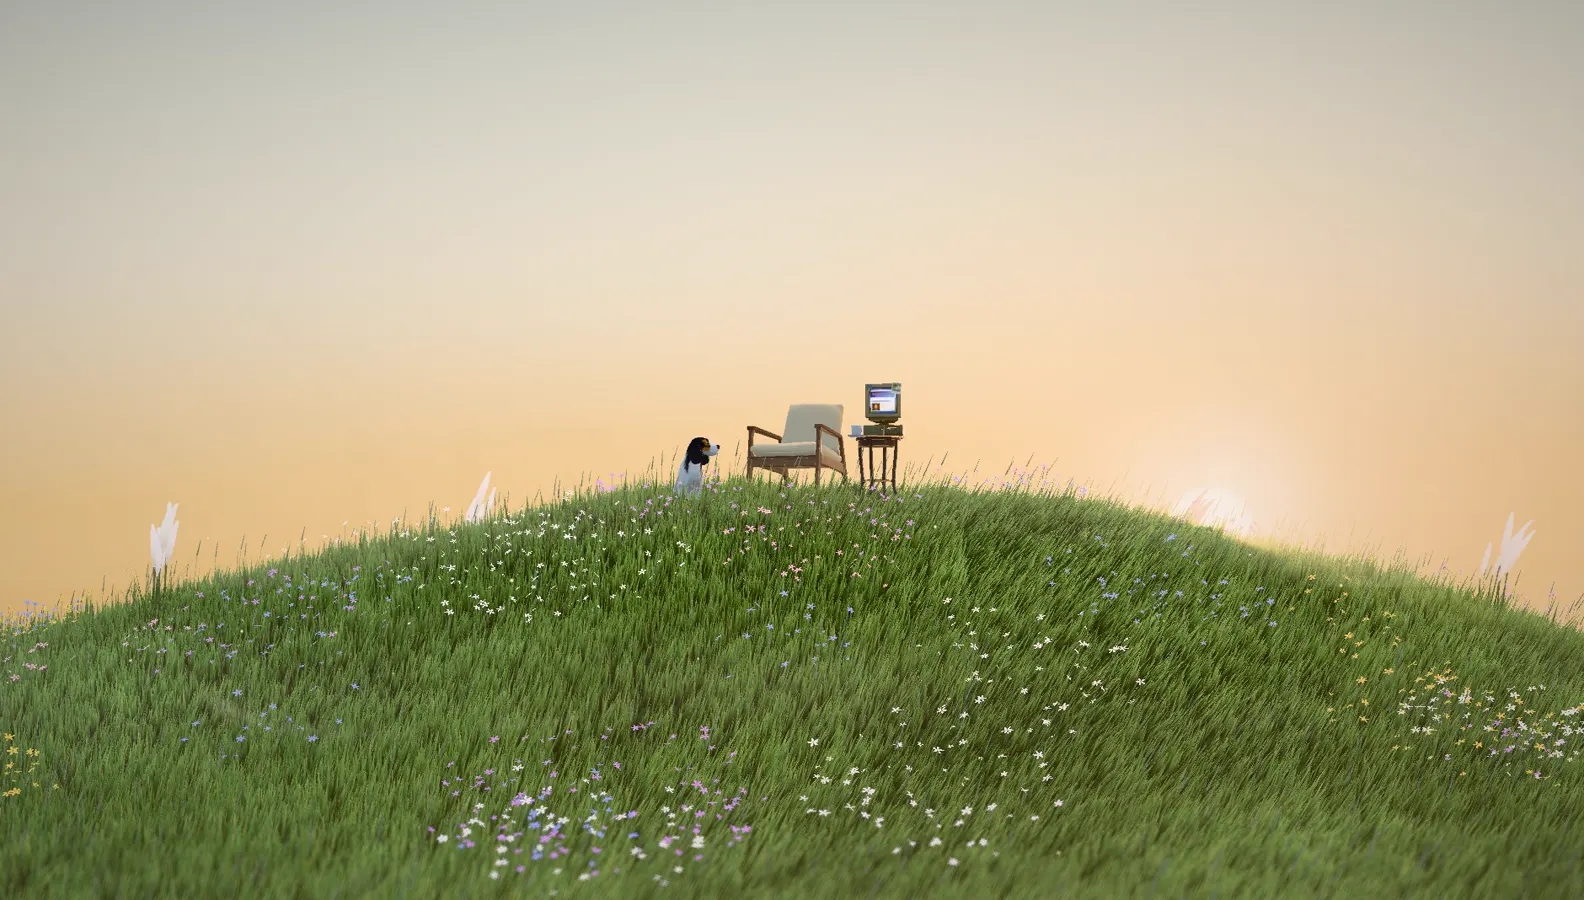
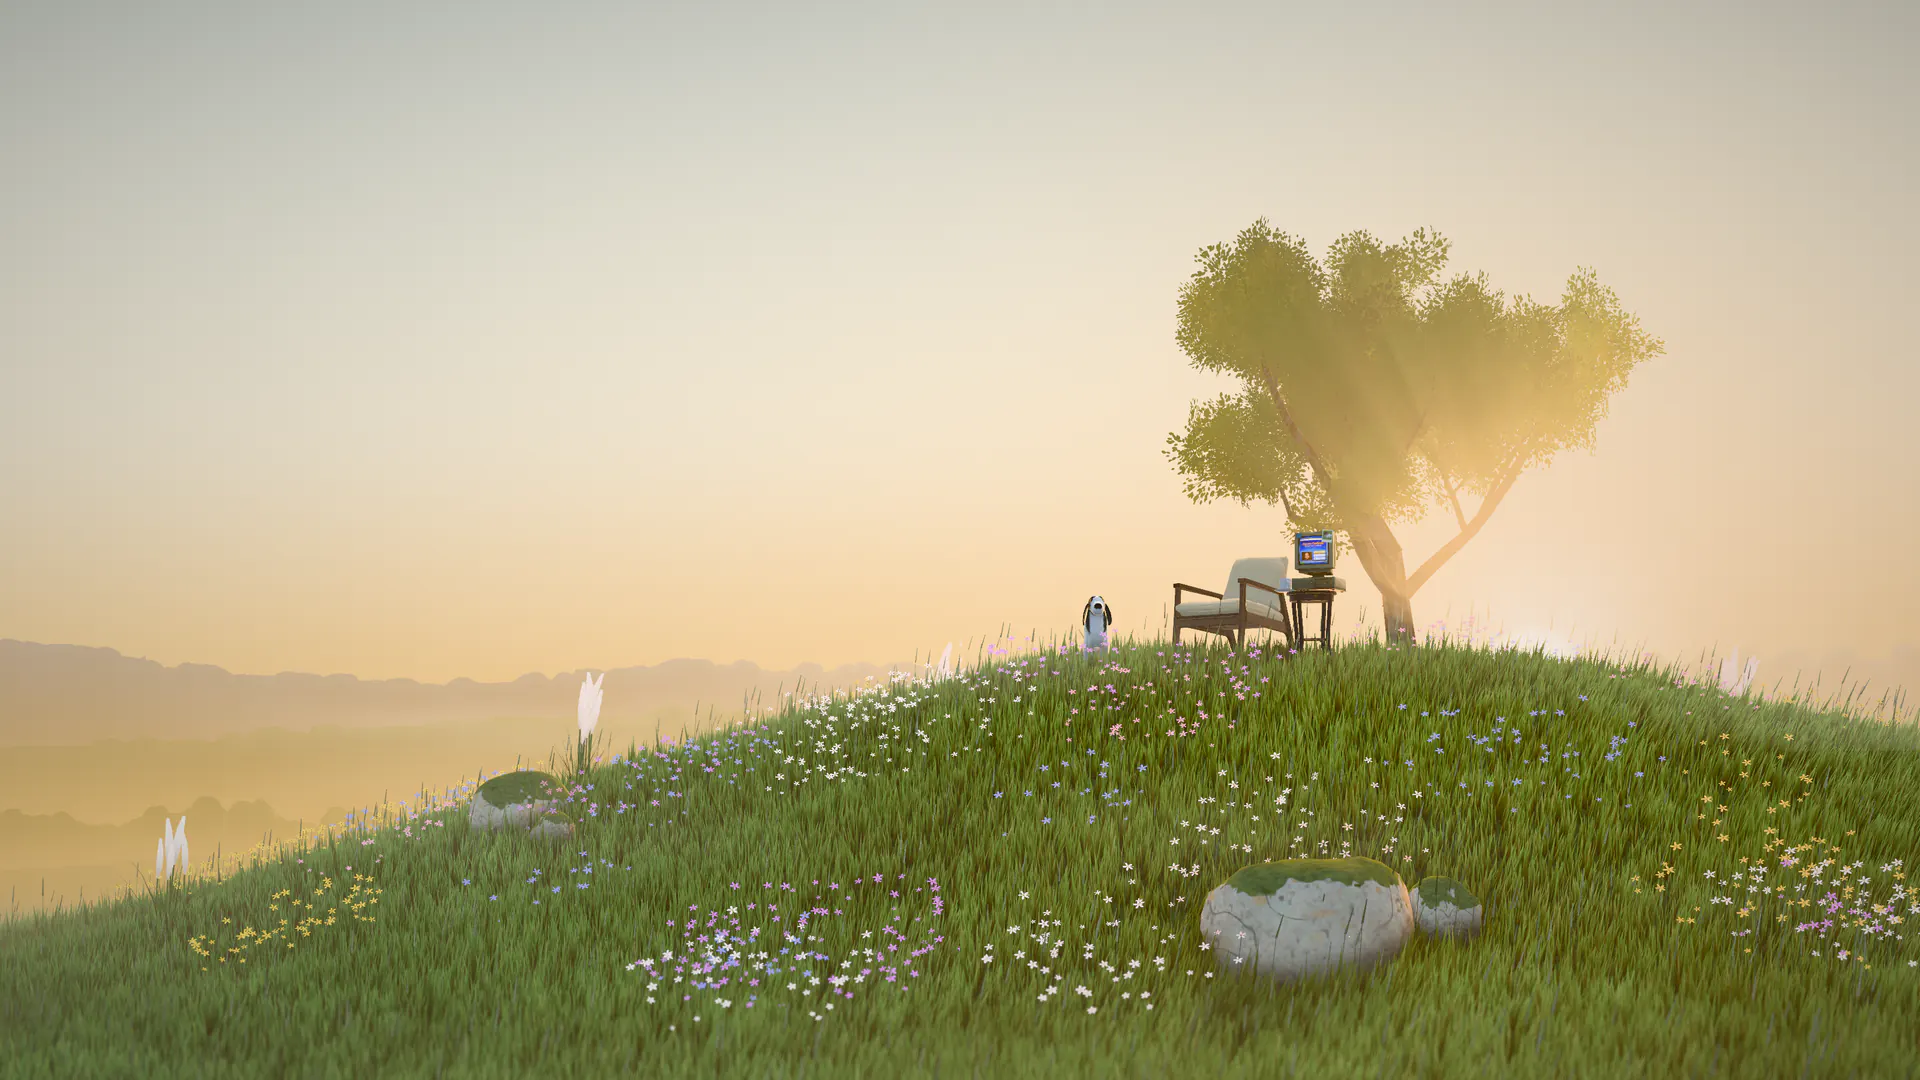
Lite version posters reshot from today's hill, with a portrait frame for phones
The lite first screen and the 404 page still showed the old centred hill with
no tree, ridges or rocks. New posters are taken from the live scene at the top
tier: 1920x1080 for wide screens and 1080x2337 for phones, captured the way the
3D version frames them (the golden-ratio frame would lose the chair on a
portrait crop). On narrow portrait screens the poster is sized to the viewport
height from the top: the lite first screen is taller than the screen, and cover
stretched the poster until the chair sat on the edge of the projects card.

diff --git a/src/ui/hill-ui.css b/src/ui/hill-ui.css
@@ -1036,6 +1036,16 @@ html:not(.fonts-ready) body:not(.lite) .story-hero { visibility: hidden; }
   position: relative; min-height: 100vh; min-height: 100svh;
   background: #e8e3d3 url("/ui/hill-poster.webp") 50% 62% / cover no-repeat;
 }
+/* v83: постеры сняты с нынешнего холма (дерево, гряды, камни). Композиция широкого кадра — по золотому сечению,
+   кресло справа; вертикальный экран вырезал бы из него середину без кресла — у него свой кадр, как у 3D на телефоне */
+@media (max-aspect-ratio: 3/4) {
+  /* первый экран лёгкой версии выше самого экрана (карточка проектов уходит за край), и cover растягивал постер —
+     кресло садилось на кромку карточки. Постер — ровно в высоту экрана от верха (но не уже его), ниже — цвет травы */
+  .lite .hero {
+    background: #605d25 url("/ui/hill-poster-m.webp") 50% 0 / auto max(100vh, 216.4vw) no-repeat;
+    background-size: auto max(100svh, 216.4vw);
+  }
+}
 .lite .stage { opacity: 1 !important; translate: none !important; }
 /* v79: этот блок стоял в файле трижды подряд — оставлен один, с тем же итоговым результатом */
 .lite .story-hero, .lite .cases, .lite .site-footer {

diff --git a/public/404.html b/public/404.html
@@ -113,7 +113,8 @@
 
   var bg = document.querySelector(".bg");
   bg.addEventListener("load", function () { bg.classList.add("on"); });
-  bg.src = base + "ui/hill-poster.webp";
+  /* вертикальный экран — свой кадр: из широкого вырезалась бы середина холма без кресла */
+  bg.src = base + (matchMedia("(orientation: portrait)").matches ? "ui/hill-poster-m.webp" : "ui/hill-poster.webp");
 
   document.querySelectorAll("[data-" + lang + "]").forEach(function (el) {
     var text = el.getAttribute("data-" + lang);
